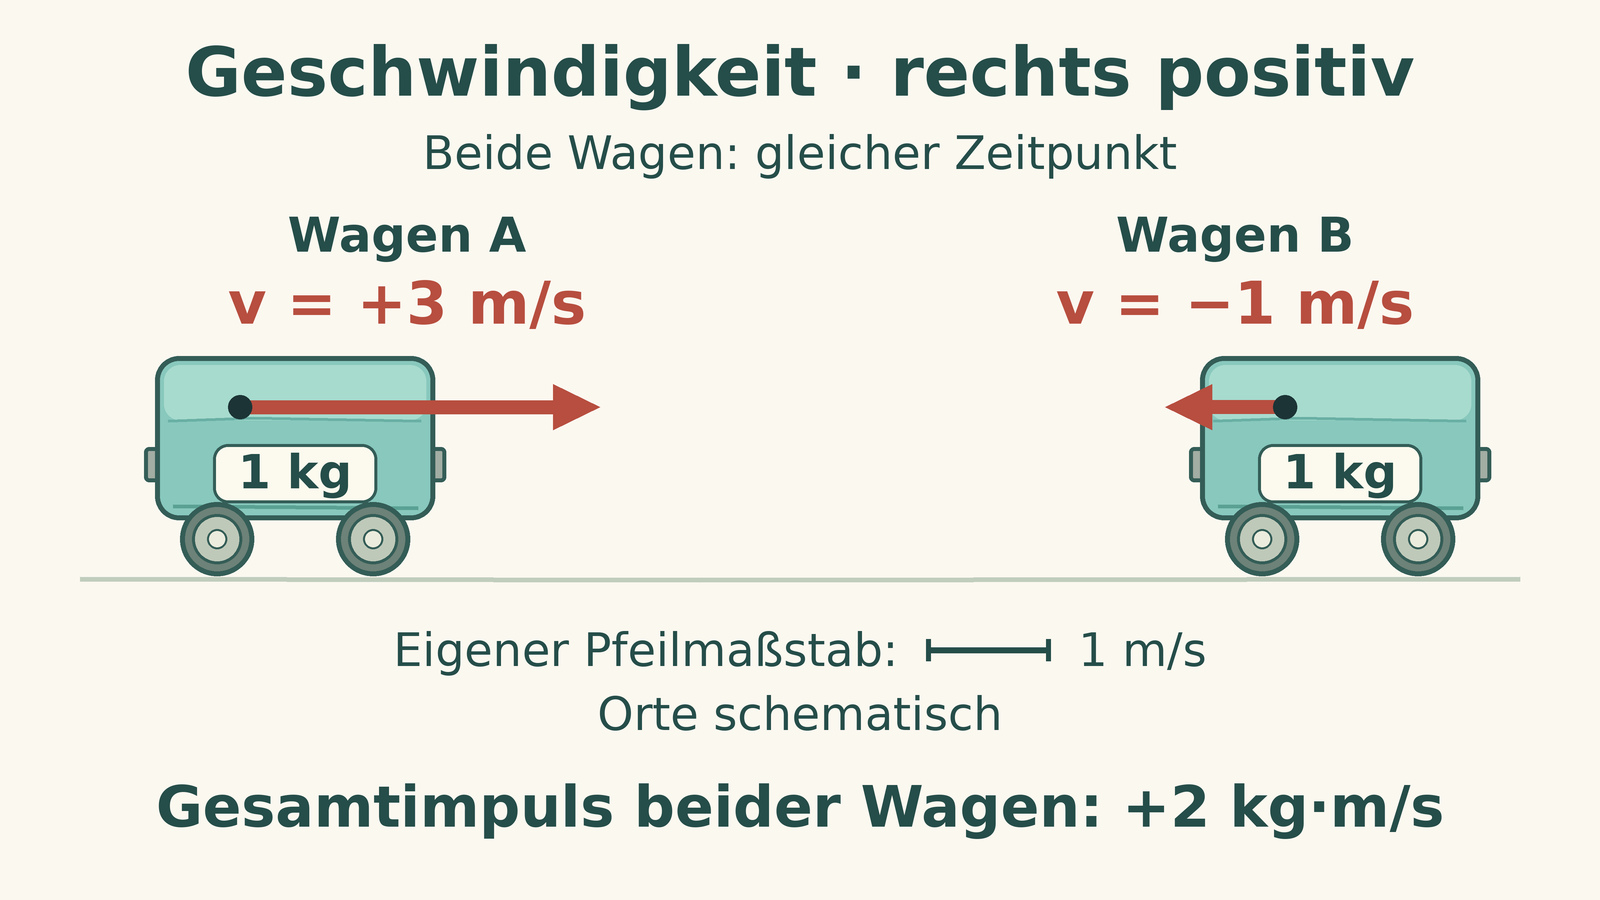
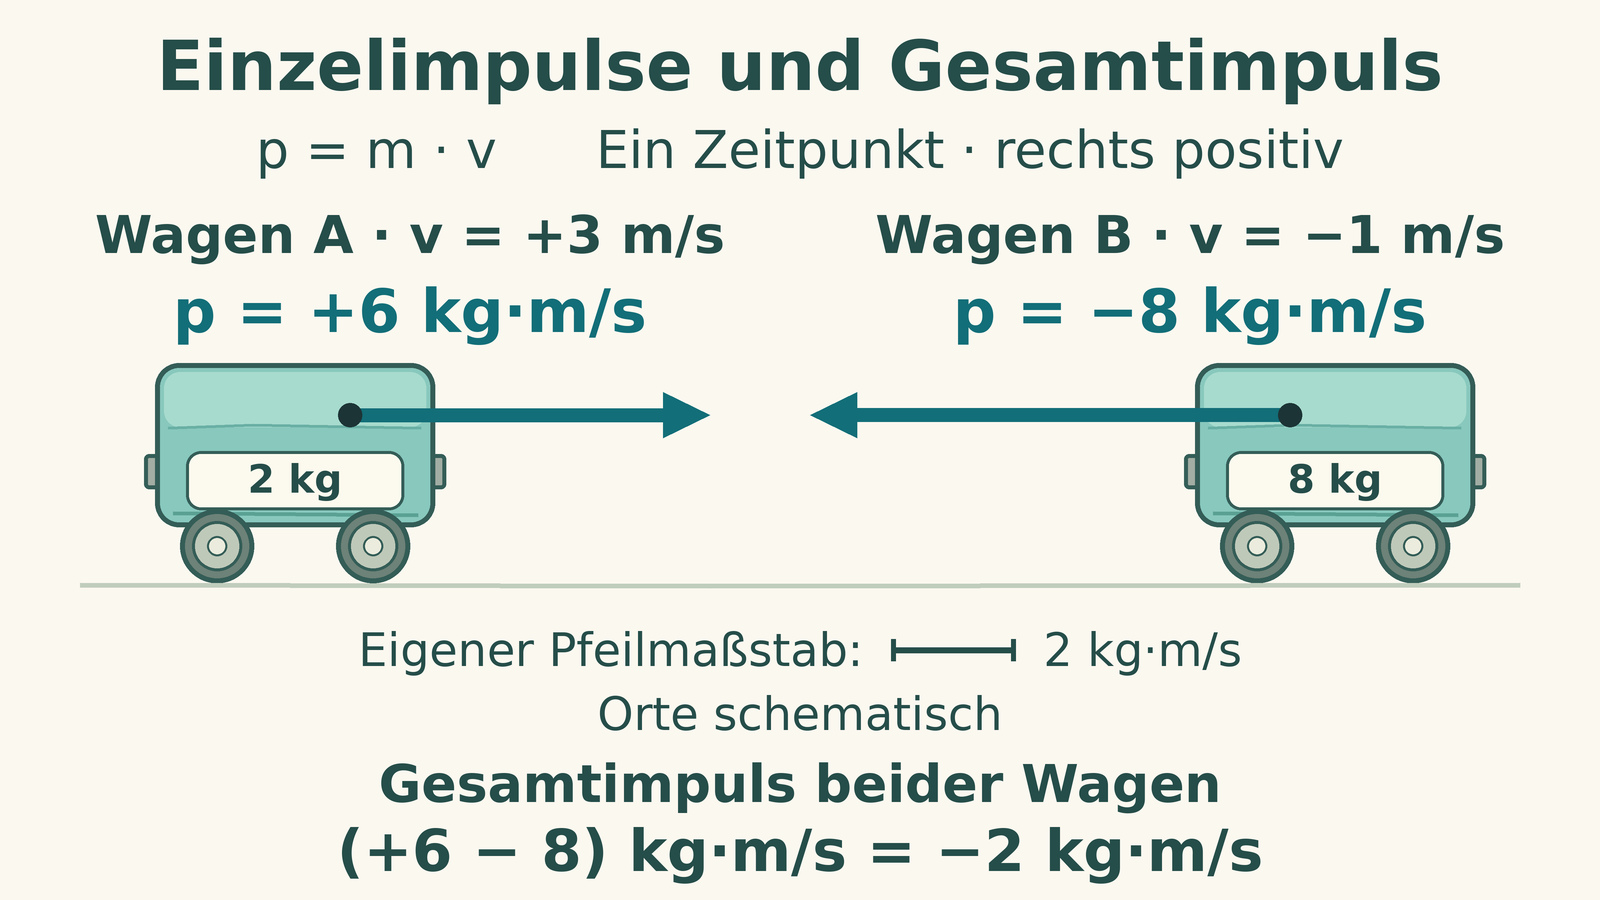
Show each cart’s signed mass–velocity product at its own point of application

diff --git a/app/scripts/testPhysicsGoalBookInputs.ts b/app/scripts/testPhysicsGoalBookInputs.ts
@@ -1706,6 +1706,22 @@ for (const change of vectorPreparation.changes) {
   assert.deepEqual(currentPreparationPins[index], change.before)
   currentPreparationPins[index] = change.current
 }
+const individualMomentumPreparationPath = 'curricula/DE/Gymnasium/quality/learning-units/e2-impuls-newton2-bindings-20261125-v1/inventory/individual-momenta-preparation.successor.actual.json'
[1 lines of base64/hex data omitted]
+const individualMomentumPreparation = readJson<{
+  predecessor: {path: string; sha256: string; payloadCount: number}
+  before: PreparationPin; current: PreparationPin; changedFields: string[]; retainedOtherPayloads: number
+}>(individualMomentumPreparationPath)
+assert.deepEqual(individualMomentumPreparation.predecessor, {
+  path: vectorPreparationPath, sha256: sha256(readFileSync(resolve(repoRoot, vectorPreparationPath), 'utf8')),
+  payloadCount: currentPreparationPins.length,
+})
+assert.equal(individualMomentumPreparation.current.goalId, '53afbda1-5776-502b-8867-471975d7b766')
+assert.deepEqual(individualMomentumPreparation.changedFields, ['resourceLinks'])
+assert.equal(individualMomentumPreparation.retainedOtherPayloads, currentPreparationPins.length - 1)
+const individualPreparationIndex = currentPreparationPins.findIndex(row => row.goalId === individualMomentumPreparation.current.goalId)
+assert.deepEqual(currentPreparationPins[individualPreparationIndex], individualMomentumPreparation.before)
+currentPreparationPins[individualPreparationIndex] = individualMomentumPreparation.current
 for (const payload of currentPreparationPins) {
   assert.equal(sha256(JSON.stringify(rawStagePreparationById.get(payload.goalId))), payload.rawSha256,
     `${payload.goalId}: stale actual source-stage prerequisite bytes`)

diff --git a/curricula/DE/Gymnasium/quality/goal-visualization-review/physik-batch-099-evidence/draw_individual_momenta.py b/curricula/DE/Gymnasium/quality/goal-visualization-review/physik-batch-099-evidence/draw_individual_momenta.py
@@ -1,0 +1,61 @@
+"""Render the signed momenta of two carts using the reviewed quantitative cart artwork."""
+import argparse
+import hashlib
+import importlib.util
+import json
+import sys
+from pathlib import Path
+
+sys.dont_write_bytecode = True
+previous = Path(__file__).resolve().parent.parent / 'physik-batch-098-evidence/draw_cart_vector_diagrams.py'
+spec = importlib.util.spec_from_file_location('cart_diagram', previous)
+art = importlib.util.module_from_spec(spec)
+spec.loader.exec_module(art)
+
+def render(directory):
+    directory.mkdir(parents=True, exist_ok=True)
+    c = art.Canvas()
+    c.text((800, 66), 'Einzelimpulse und Gesamtimpuls', 69, True)
+    c.text((800, 150), 'p = m · v      Ein Zeitpunkt · rechts positiv', 52)
+    carts = [
+        ('A', 2, 3, 6, 410, (155, 363, 435, 527), (350, 415)),
+        ('B', 8, -1, -8, 1190, (1195, 363, 1475, 527), (1290, 415)),
+    ]
+    def signed(value):
+        return f'{value:+}'.replace('-', '−')
+
+    for name, mass, velocity, momentum, cx, box, anchor in carts:
+        assert mass * velocity == momentum
+        c.text((cx, 235), f'Wagen {name} · v = {signed(velocity)} m/s', 52, True)
+        c.text((cx, 311), f'p = {signed(momentum)} kg·m/s', 60, True, art.MOMENTUM)
+        art.cart(c, box, f'{mass} kg')
+        tip = (anchor[0] + 60 * momentum, anchor[1])
+        assert box[0] < anchor[0] < box[2] and box[1] < anchor[1] < box[3]
+        assert carts[0][5][2] < tip[0] < carts[1][5][0]
+        art.quantity_arrow(c, anchor, tip, art.MOMENTUM)
+
+    c.line([(80, 585), (710, 586), (1520, 585)], '#C0CDBD', 5)
+    scale = art.scale_bar(c, '2 kg·m/s')
+    assert scale['tickCenterDistancePx'] == 2 * 60
+    c.text((800, 784), 'Gesamtimpuls beider Wagen', 52, True)
+    c.text((800, 851), '(+6 − 8) kg·m/s = −2 kg·m/s', 58, True)
+    image = c.image.resize(art.SIZE, art.Image.Resampling.LANCZOS)
+    jpeg = directory / 'individual-momenta.jpg'
+    image.save(jpeg, 'JPEG', quality=96, subsampling=0, optimize=False, progressive=False)
+    raster = art.Image.open(jpeg).convert('RGB')
+    raster.resize((360, 203), art.Image.Resampling.LANCZOS).save(directory / 'individual-momenta.360.png')
+    rows = []
+    for name, mass, velocity, value, _, box, start in carts:
+        tip = (start[0] + 60 * value, start[1])
+        measured = art.raster_measure(raster, start, tip, art.MOMENTUM)
+        assert abs(measured['dotToApexLengthPx'] - 60 * abs(value)) <= 2
+        rows.append(dict(cart=name, massKg=mass, signedVelocityMPerS=velocity,
+                         signedMomentumKgMPerS=value, bodyBox=box, start=start, tip=tip, raster=measured))
+    report = dict(carts=rows, scale=scale, totalMomentumKgMPerS=sum(x[3] for x in carts),
+                  jpegSha256=hashlib.sha256(jpeg.read_bytes()).hexdigest())
+    (directory / 'geometry.json').write_text(json.dumps(report, indent=2) + '\n')
+
+if __name__ == '__main__':
+    parser = argparse.ArgumentParser(description=__doc__)
+    parser.add_argument('output', type=Path)
+    render(parser.parse_args().output)

diff --git a/curricula/DE/Gymnasium/quality/goal-visualization-review/physik-batch-099.md b/curricula/DE/Gymnasium/quality/goal-visualization-review/physik-batch-099.md
@@ -1,0 +1,14 @@
+# Einzelimpulse und Gesamtimpuls zweier Wagen
+
+Review date: 2026-11-25
+Status: `accepted_ai_pilot`
+
+| Ziel-ID | Aktuelles Ziel | Entscheidung | SHA-256 des JPEG | Sichtbefund |
+| --- | --- | --- | --- | --- |
[1 lines of base64/hex data omitted]
+
+Die Übernahmeprüfung verwarf das Bild aus Batch 098 für dieses Ziel. Beide Massen waren 1 kg und die Pfeile zeigten Geschwindigkeiten. Dadurch konnte man die Summe der Zahlenwerte als bloße Addition der Geschwindigkeiten lesen. Im Nachfolger zeigt die Formel die Multiplikation mit der jeweiligen Masse. Die Geschwindigkeiten stehen als Zahlen bei den Wagen. Aus der Pfeilrichtung und dem gemeinsamen Impulsmaßstab folgen die Einzelimpulse. Die Rechnung unter der Skizze nennt ausdrücklich das System beider Wagen.
+
+Die Ausnahme für genaue Diagramme aus AGENTS.md §7.3 gilt weiterhin. In Batch 098 hatten je zwei Bildgeneratorversuche den quantitativen Pfeilmaßstab verfehlt. Das bestehende Zeichenprogramm zeichnet die neuen Pfeile mit 360 und 480 Pixeln Länge, ihr Maßstabsbalken umfasst 120 Pixel. Die JPEG-Messung verifiziert Anfang und Spitze. Bei 360 Pixeln bleiben beide Punkte am Wagen, die freien Spitzen, Werte und Einheiten unterscheidbar. Die vier anderen Bilder aus Batch 098 behielten ihre Übernahmeentscheidung.
+
+[Zeichenprogramm](physik-batch-099-evidence/draw_individual_momenta.py) · [Maße, Vorgänger und Bildhash](physik-batch-099-evidence/measurements.actual.json)

diff --git a/curricula/DE/Gymnasium/quality/goal-visualization-review/physik-rollout-status.md b/curricula/DE/Gymnasium/quality/goal-visualization-review/physik-rollout-status.md
@@ -8,7 +8,7 @@
 > Source of truth: `curricula/DE/Gymnasium/canonical/DE_DEU_S_GYM_CANONICAL_PHYSIK.de.json`
 > Source of truth: `curricula/DE/Gymnasium/quality/goal-visualization-review`
 
-Generated: 2026-11-25T17:52:49.444Z
+Generated: 2026-11-25T19:17:52.248Z
 
 Scope: canonical `DE Gymnasium Physik`, atomic goal visualizations.
 
@@ -24,7 +24,7 @@ Scope: canonical `DE Gymnasium Physik`, atomic goal visualizations.
 | Dokumentierte Coverage | 100.0% |
 | Coverage-Gate | bestanden |
 | Release-approved Visualisierungen | 0 |
-| Review-Ledger-Dateien | 101 |
+| Review-Ledger-Dateien | 102 |
 | Offene Provider-Deferred-Ziele | 0 |
 | Offene Quality-Deferred-Ziele | 0 |
 | Offene Provider-Quota-Ziele | 0 |
@@ -47,7 +47,7 @@ Scope: canonical `DE Gymnasium Physik`, atomic goal visualizations.
 | `accepted_after_notation_correction` | 1 |
 | `accepted_ai_pilot` | 4 |
 | `accepted_cluster_overview_after_atomic_split` | 1 |
-| `accepted_documented_repo_native_fallback` | 5 |
+| `accepted_documented_repo_native_fallback` | 6 |
 | `accepted_existing_asset` | 10 |
 | `accepted_existing_asset_as_cluster_overview` | 8 |
 | `accepted_existing_asset_metadata_rebound` | 15 |
@@ -78,7 +78,7 @@ Scope: canonical `DE Gymnasium Physik`, atomic goal visualizations.
 
 | Metric | Value |
 | --- | --- |
-| Latest ledger | `curricula/DE/Gymnasium/quality/goal-visualization-review/physik-batch-098.md` |
+| Latest ledger | `curricula/DE/Gymnasium/quality/goal-visualization-review/physik-batch-099.md` |
 | Latest ledger status | `accepted_ai_pilot` |
 | Configured resume file | - |
 | Configured prompt append dir | `tmp/goal-visualization-prompt-appends/physik-batch-073-regeneration-2` |

diff --git a/curricula/DE/Gymnasium/visualizations/physik/53afbda1-5776-502b-8867-471975d7b766/prompt.de.md b/curricula/DE/Gymnasium/visualizations/physik/53afbda1-5776-502b-8867-471975d7b766/prompt.de.md
@@ -16,7 +16,7 @@
 ## Prompt
 
 ```text
-Erstelle ein maßstabsgerechtes Vektordiagramm mit zwei Wagen von je 1 kg in derselben Momentaufnahme auf einer Geraden. Rechts ist positiv. Die Geschwindigkeitspfeile beginnen auf den Wagen und zeigen nach rechts für +3 m/s und nach links für −1 m/s. Die zwei Längen sind genau im Verhältnis 3 zu 1. Ein davon getrennter Maßstabsbalken entspricht 1 m/s. Zeige die Fahrzeugorte schematisch. Keine Spitze berührt den anderen Wagen. Gib den Gesamtimpuls beider Wagen als Zahl +2 kg·m/s an. Ruhiger, freundlicher Zeichenstil, Querformat 1600 × 900 und gut lesbar bei 360 Pixeln Breite.
+Ein übersichtliches maßstäbliches Diagramm mit zwei freundlichen Wagen in derselben Momentaufnahme auf einer Geraden. Rechts ist positiv. A wiegt 2 kg und fährt mit +3 m/s, B wiegt 8 kg und fährt mit −1 m/s. Zeige p = m · v. Beschrifte die beiden am Wagen beginnenden Impulspfeile mit +6 und −8 kg·m/s. Für 2 kg·m/s stehen 120 Pixel, also 360 Pixel nach rechts und 480 Pixel nach links. Die Pfeilspitzen bleiben frei. Geschwindigkeiten stehen als Zahlen. Benenne die Orte als schematisch. Zeige getrennt die Summe beider Wagen (+6 − 8) kg·m/s = −2 kg·m/s. Ruhiges Querformat 1600 × 900, auch bei 360 Pixeln lesbar.
 ```
 
 ## Review-Notiz
